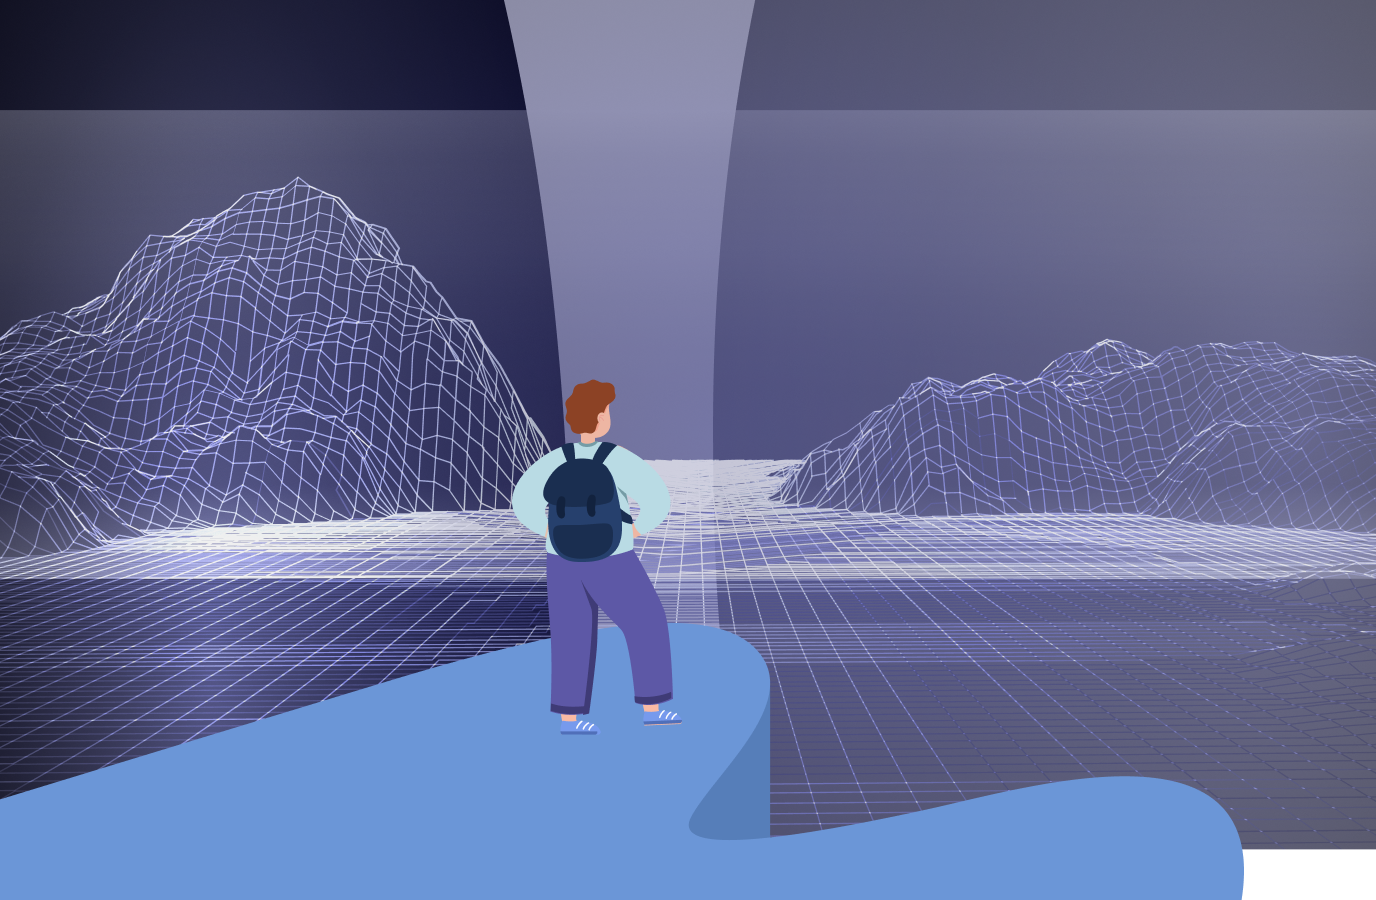
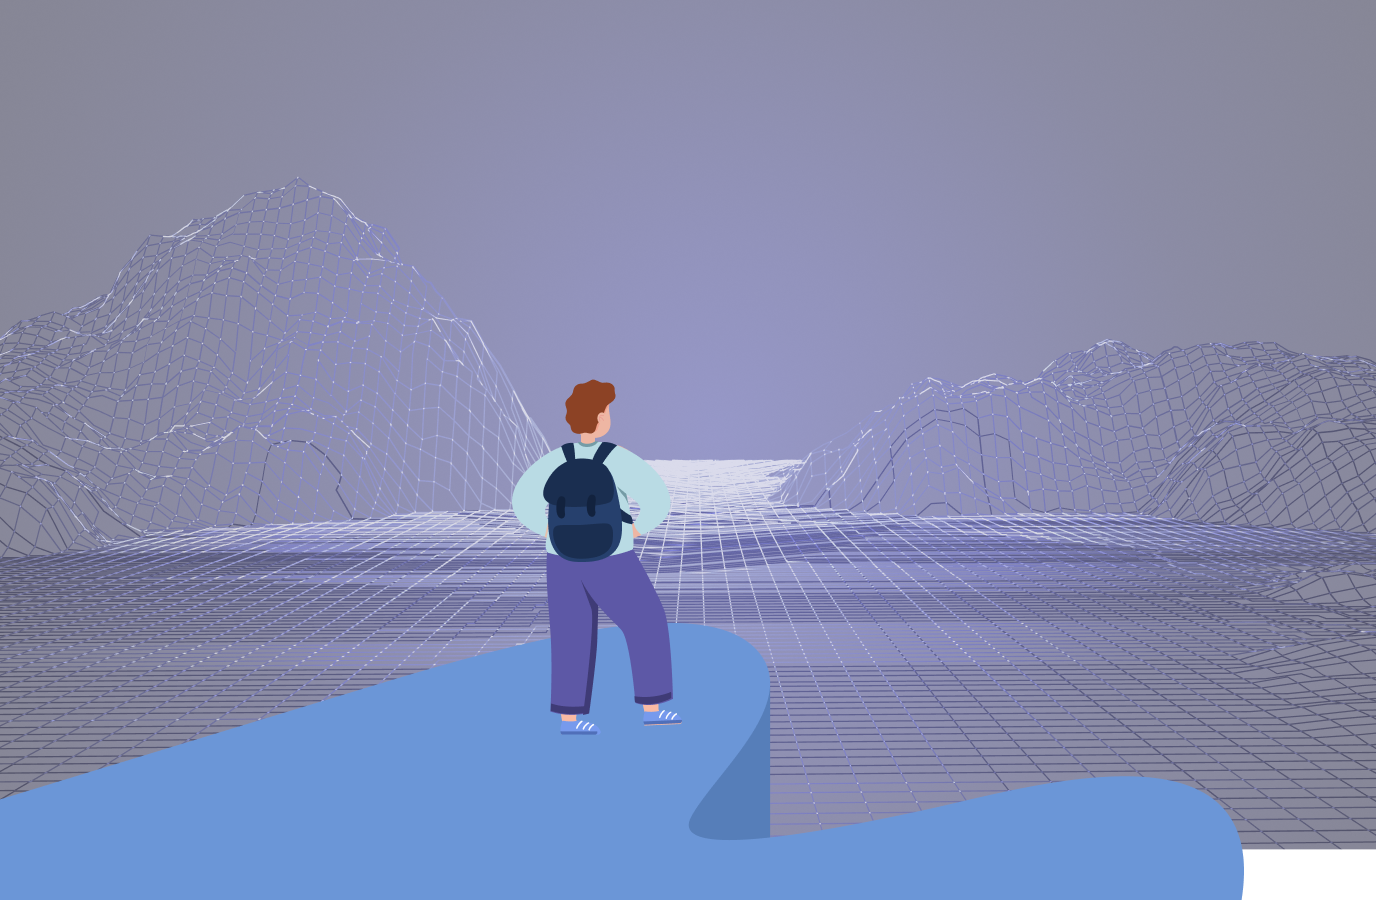
asdasd

diff --git a/src/modules/frame7_3/index.tsx b/src/modules/frame7_3/index.tsx
@@ -8,7 +8,7 @@ function Frame73Desktop({ timeline }: { timeline: GSAPTimeline }) {
   const { app } = useApplication()
   const [, forceRender] = useReducer(x => x + 1, 0)
 
-  const proxy = useRef({ bgAlpha: 0, terrainAlpha: 0 })
+  const proxy = useRef({ bgAlpha: 0, overlayAlpha: 0, terrainAlpha: 0 })
 
   useEffect(() => {
     if (!timeline || !app.renderer) return
@@ -22,11 +22,18 @@ function Frame73Desktop({ timeline }: { timeline: GSAPTimeline }) {
     }, ">")
 
     timeline.to(p, {
-      terrainAlpha: 1,
-      duration: 1.4,
+      overlayAlpha: 1,
+      duration: 1.2,
       ease: "power1.out",
       onUpdate: forceRender,
-    }, "<0.4")
+    }, "<")
+
+    timeline.to(p, {
+      terrainAlpha: 1,
+      duration: 1.4,
+      ease: "power2.out",
+      onUpdate: forceRender,
+    }, "<0.5")
   }, [timeline, app.renderer])
 
   if (!app.renderer) return null
@@ -35,24 +42,22 @@ function Frame73Desktop({ timeline }: { timeline: GSAPTimeline }) {
   const sh = app.screen.height
   const p = proxy.current
 
-  const bgTex = Assets.get(ASSETS.bg73)
-  const bgScale = Math.max(sw / bgTex.width, sh / bgTex.height)
-  const bgW = bgTex.width * bgScale
-  const bgH = bgTex.height * bgScale
-  const bgX = (sw - bgW) / 2
-  const bgY = (sh - bgH) / 2
+  const fit = (tex: { width: number; height: number }) => {
+    const s = Math.max(sw / tex.width, sh / tex.height)
+    const w = tex.width * s
+    const h = tex.height * s
+    return { w, h, x: (sw - w) / 2, y: (sh - h) / 2 }
+  }
 
-  const terrainTex = Assets.get(ASSETS.terrain73)
-  const terrainScale = Math.max(sw / terrainTex.width, sh / terrainTex.height)
-  const terrainW = terrainTex.width * terrainScale
-  const terrainH = terrainTex.height * terrainScale
-  const terrainX = (sw - terrainW) / 2
-  const terrainY = (sh - terrainH) / 2
+  const bg = fit(Assets.get(ASSETS.bg73))
+  const overlay = fit(Assets.get(ASSETS.bg73BlurOverlay))
+  const terrain = fit(Assets.get(ASSETS.terrain73))
 
   return (
     <pixiContainer>
-      <pixiSprite texture={bgTex} width={bgW} height={bgH} x={bgX} y={bgY} alpha={p.bgAlpha} />
-      <pixiSprite texture={terrainTex} width={terrainW} height={terrainH} x={terrainX} y={terrainY} alpha={p.terrainAlpha} />
+      <pixiSprite  texture={Assets.get(ASSETS.bg73BlurOverlay)} width={overlay.w} height={overlay.h} x={overlay.x} y={overlay.y} alpha={p.overlayAlpha} />
+      <pixiSprite texture={Assets.get(ASSETS.bg73)} width={bg.w} height={bg.h} x={bg.x} y={bg.y} alpha={p.bgAlpha} />
+      <pixiSprite  texture={Assets.get(ASSETS.terrain73)} width={terrain.w} height={terrain.h} x={terrain.x} y={terrain.y} alpha={p.terrainAlpha} />
     </pixiContainer>
   )
 }

diff --git a/src/assets/manifest.ts b/src/assets/manifest.ts
@@ -43,6 +43,7 @@ import bg73 from "./desktop/bg73.png"
 // import sun from "./desktop/sun.png"
 // import behindEarly from "./desktop/behind-early.png"
 import terrain73 from "./desktop/terrain73.png"
+import bg73BlurOverlay from "./desktop/bg73-blur-overlay.png"
 
 // mobile
 import mobileBg5 from "./mobile/bg5.png"
@@ -108,6 +109,7 @@ export const ASSETS = {
   // sun: "sun",
   //   behindEarly: "behindEarly",
   terrain73: "terrain73",
+  bg73BlurOverlay: "bg73BlurOverlay",
 } as const
 
 const MOBILE_BREAKPOINT = 768
@@ -162,6 +164,7 @@ export function loadAssets() {
       // { alias: ASSETS.sun, src: sun },
       // { alias: ASSETS.behindEarly, src: behindEarly },
       { alias: ASSETS.terrain73, src: terrain73 },
+      { alias: ASSETS.bg73BlurOverlay, src: bg73BlurOverlay },
     ])
 
     Assets.addBundle("mobile", [
